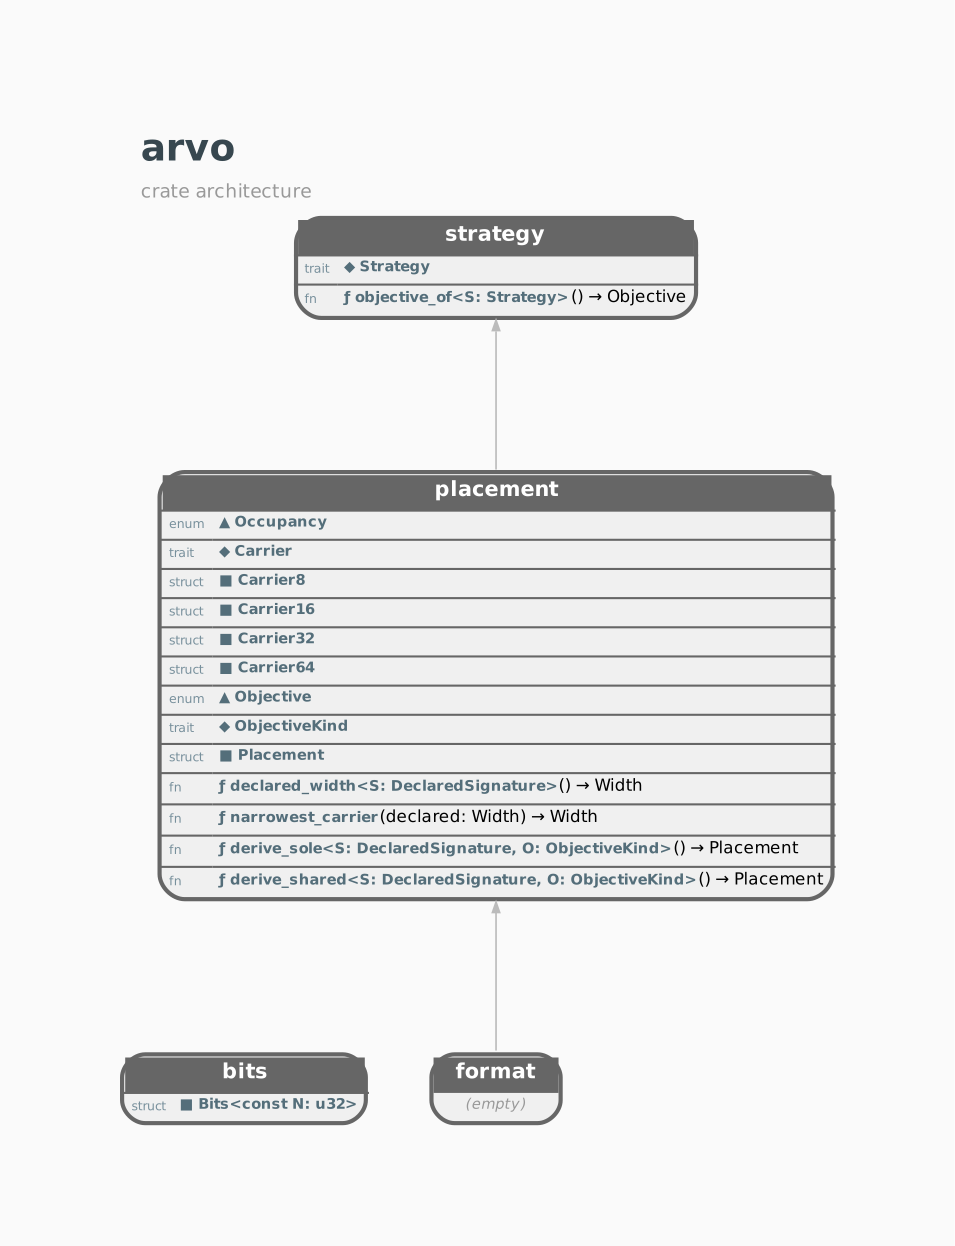
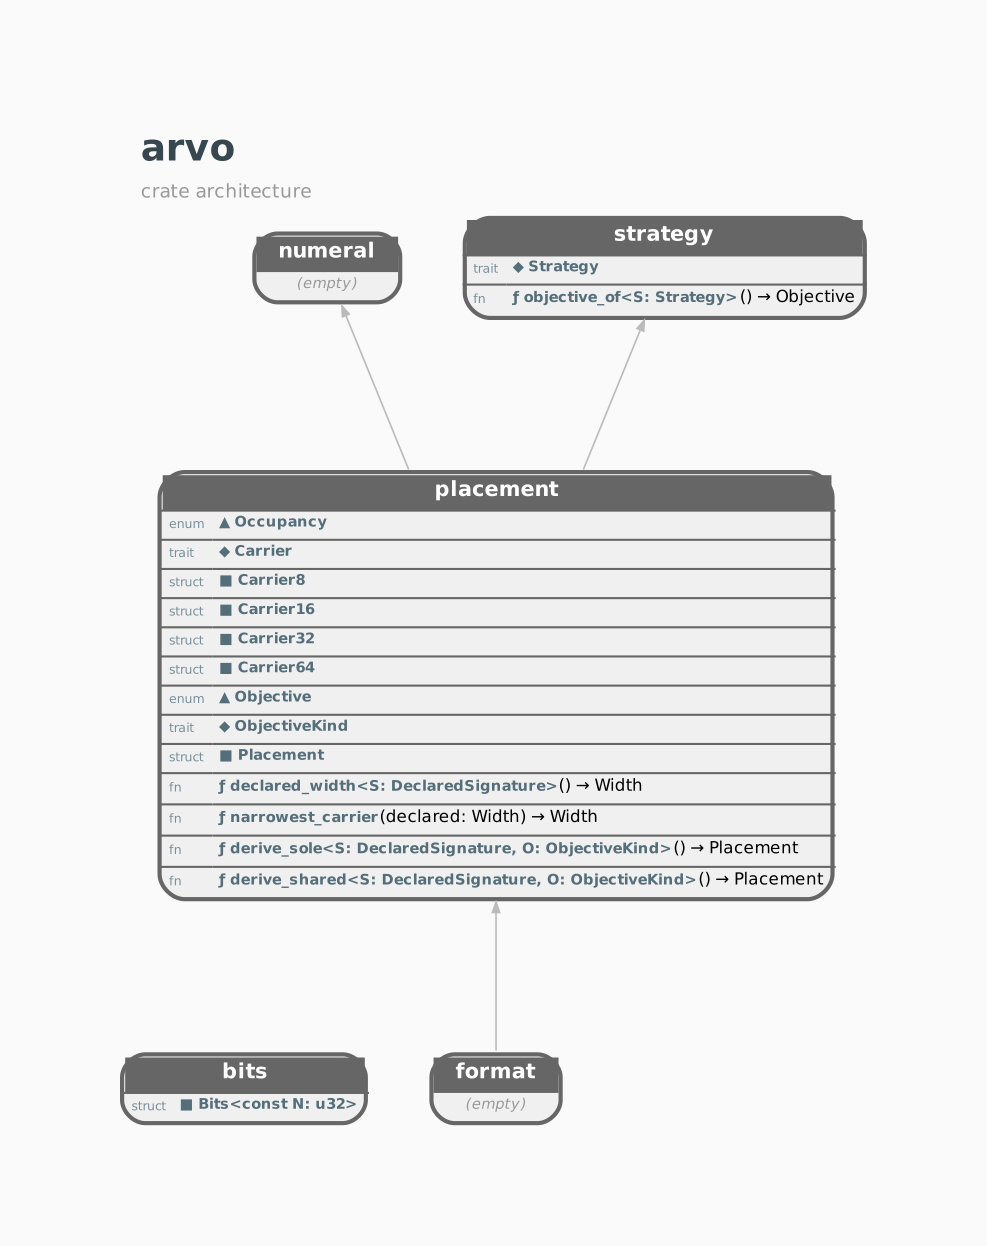
docs: regenerate the documents with `arvo-numeral` in them

diff --git a/docs/NUMERAL.md b/docs/NUMERAL.md
@@ -1,0 +1,255 @@
+<!--
+  AUTO-GENERATED: DO NOT EDIT DIRECTLY
+
+  Generated by: mockspace (mock)
+  Generated at: 2026-11-13T05:10:42Z
+  Source: mock/
+  To regenerate: cargo mock
+-->
+
+# `arvo-numeral`: a value of a declared signature, held in its derived carrier
+
+Canon this design declares:
+`ruling::the_format_spine_is_canon`, for the sum the value computes, which is the format's own.
+`ruling::behaviour_is_stated_per_declared_signature_and_the_premise_dissolves`, for the carrier being
+observable through the host's layout and through nothing the value declares.
+`ruling::the_derivation_is_a_placement_and_the_operation_set_is_an_admission_rule`, for the admission.
+`ruling::the_overflow_panic_is_permitted_and_bounded` and `ruling::never_a_runtime_check_and_one_lowered_path`,
+for the debug assertion and the two markers of each policy.
+`obligation::a_platform_sized_unsigned_integer_at_an_api_position` and
+`obligation::a_primitive_for_every_position_a_bare_number_would_take`, for the aliases.
+`proposal::a_value_is_the_sole_occupancy_placement_of_a_declared_signature`, at one expert, which this
+crate builds on and does not promote.
+
+## What this crate is
+
+A value of a declared signature: one member of the format's representable set, held alone in the
+carrier the placement derives at sole occupancy. `arvo-format` says which values exist and how an exact
+result is put back onto them; `arvo-placement` says how many bits one of them takes when it sits alone.
+Neither holds a number. This crate does, and holds nothing else.
+
+Every operation on a value is defined as the format's own operation on its slot, so the value never
+states a behaviour of its own. Its sum is the oracle's sum, `add::<S>` in `arvo-format`, and the
+contract is an equality: the slot of `a.add(b)` is `add::<S>(a.slot(), b.slot(), Dither::UNUSED)` for
+every pair of members of every admitted signature. The carrier arithmetic is the mechanism that meets
+that equality fast, and it is free to be anything that does.
+
+It depends on `arvo-format` and `arvo-placement` and adds nothing to either. `no_std`, no allocation,
+no feature gate, no unstable feature, and every operation a `const fn`.
+
+## What a value signature admits
+
+`Sole` is the bound a value is generic over. It is implemented once, over every `DeclaredSignature`
+that meets three conditions, so nothing outside this crate implements it and code generic over a
+value's signature bounds it by `Sole` and nothing more.
+
+The format's slot family is on the map, which is `Signed<W>` and `Unsigned<W>` for every `W` from 1 to
+64, through `Carried`. The overflow policy is a `ValuePolicy`: `Wrap`, `Saturate`, `Wrapping` and
+`Saturating`. The rounding mode is a `ValueRounding`: `TowardZero`, `Floor`, `Ceil`, `HalfUp` and
+`HalfEven`. All three traits are sealed, so the set is what this crate can compute and no more.
+`HalfUp` here is the format's `half_up`, a tie toward positive infinity at every sign, and not the
+`HALF_UP` of Java or Python: a tie at -2.5 goes to -2.
+
+On top of those bounds, `Sole::ADMITTED` asserts that the format's quantum is constant and its phase is
+zero. That is where the sum of two members is the member at the sum of their slots, which is what lets
+the carrier add stand in for the format's addition. Every door forces it, so no value of another
+format can be built. Integers, fixed point at any constant exponent, and scaled integers at any radix
+pass; a phase or an indexed quantum is refused at build with that assertion's message.
+
+What is refused, and why, so that each refusal reads as a decision rather than a gap:
+
+| Refused | Where it fails | Why |
+|---|---|---|
+| `Clamp` | `ValuePolicy` bound | With no bound to carry, clamping is saturation under another name. |
+| `Stochastic` | `ValueRounding` bound | It reads a dither, and a value has nowhere to carry one. |
+| A phase, an indexed quantum | `Sole::ADMITTED` | The sum of two slots is not the slot of the sum. |
+| Width 0, width past 64 | `Carried` bound | No slot range, or no ladder carrier. |
+
+## How the value holds its carrier
+
+`Num<S: Sole>` is a `repr(transparent)` newtype over `S::Repr`, its field private. `S::Repr` comes from
+the map: `Carried` names the ladder carrier for each slot family, the narrowest of 8, 16, 32 and 64 bits
+that holds the width, signed exactly where the family is. Each row of the map carries a check-time
+assertion that the carrier's size in bits is what `arvo_placement::derive_sole` derives for that
+family's canonical point, so the map cannot drift from the placement it transcribes.
+
+A `const fn` cannot call a trait method on `S::Repr`. So each operation is written once: it moves the
+bits to the machine integer of the same size and signedness, calls that rung's function, and moves the
+result back. The match it dispatches on is over constants of the instantiation, so one arm survives
+monomorphisation and the backend sees one call. The move is a bit copy and the crate's one `unsafe`. It
+is bounded on `Machine`, sealed to the plain machine integers, where every bit pattern is a valid value,
+and guarded by an assertion that the two sizes are equal; that assertion is an ordinary one rather than
+an inline `const`, because the dead arms are monomorphised as well and would fail it, and on the arm
+taken it holds and folds away.
+
+The rung functions are written once per carrier width and expanded by one macro. Below the carrier's
+width two members sum without leaving the carrier, so `add` is the machine's wrapping add followed by
+the adaptation onto the declared width. At the carrier's width the machine's own wrapping or saturating
+add is already the answer.
+
+## Where the host integers are named
+
+This crate is where the carriers the placement derives meet the host's machine integers, so it is
+declared beside `arvo-format` and `arvo-bits` as introducing the numeric category, and the
+bare-primitive lints read that declaration as their scope. The declaration covers a named surface and
+nothing else:
+
+1. `Num`'s representation, `S::Repr`, and the map that names it: `Carried`, its rows from `Signed<W>`
+   and `Unsigned<W>` to the ladder carriers, and `Machine` with the bit copy between two of them.
+2. The rung arithmetic, written once per carrier width, and the dispatch onto it by the carrier's size
+   and sign.
+3. The doors to the carrier, `raw` and `from_raw`, and to the host, `from_host` and `host` on `USize`
+   and `ISize`.
+4. The slot index, a bare `i128` in `arvo-format`'s `Slot`, where `constant` takes it as a const
+   parameter and the value is built from one.
+5. The signatures core fixes for the traits `Num` implements, `PartialEq::eq` returning `bool` among
+   them, and the crate's own tests.
+
+Everything else is written in the stack's own types: `Bool` for every predicate, `Width` and `Policy`
+from the signature, `Ordering` for the order, and `Num` itself at every position a consumer sees.
+
+## The overflow markers
+
+Each value policy has two markers over one `Policy`.
+
+Under the plain spellings, `arvo_format::overflow::Wrap` and `arvo_format::overflow::Saturate`, a
+result that leaves the range asserts in a debug build: in `add`, and in every door that adapts. That is
+the letter of `ruling::the_overflow_panic_is_permitted_and_bounded`.
+
+`Wrapping` and `Saturating` are declared here, implementing `arvo_format::Overflow` with the same
+`POLICY`. Under them the completion is the meaning of the operation and nothing asserts in any build
+profile, the way the host's own `core::num::Wrapping` and `core::num::Saturating` behave. The choice is
+in the type, never in a build flag.
+
+The assertion never lives inside the total operation. It asks a verdict, `fits_add`, which says whether
+the exact sum of two members is a member, and only under a plain marker and `debug_assertions`; in a
+release build, and under the second markers in every build, the branch is a constant false and clears
+at lowering. The doors that adapt ask `arvo_format::panic_on_overflow` of the position they adapt, the
+same verdict the format ships.
+
+The compromise, stated: a consumer writing `Wrap` gets a debug abort on a sum that wraps. That is the
+ratified row's letter, and the marker that turns it off is one word away.
+
+## The doors
+
+Every door is a `const fn` and every one is total or refused at build. None checks at run time.
+
+`Num::constant::<V>()` takes a slot index as a bare `i128` const parameter and is refused at build, as
+a failed constant, where `V` is not a member. `Num::adapted(exact)` ingests an `arvo_format::Exact`
+through the format's own `adapt`, so a position between two slots is rounded by the signature's mode and
+a position outside the range is completed by its policy. `Num::from_raw(raw)` reads carrier bits as the
+member they name after the rung's adaptation onto the declared width, so it is total over every bit
+pattern, and `from_raw(v.raw())` is `v` for every value.
+
+`Num::slot` and `Num::raw` are the unwrap doors and say so: `slot` gives the member's `arvo_format::Slot`,
+`raw` the carrier bits, and the carrier is the one place this crate shows a machine integer.
+
+`USize` and `ISize` carry two more, `from_host` and `host`, taking and giving the host's `usize` and
+`isize`. Their carrier is the ladder's at the pointer width and every host value is a member, so both
+are bit copies.
+
+## The operations
+
+`add` is the sum, total, and equal to the oracle on every pair. `fits_add` is its verdict, returning
+`Bool`.
+
+`eq` returns `Bool`, and two values are equal exactly when their slots are, because the carrier is
+canonical: one member, one bit pattern. `cmp` returns `core::cmp::Ordering`; `lt`, `le`, `gt` and `ge`
+return `Bool`; `min` and `max` return the value. At a zero phase and a constant quantum the map from slot
+to member is monotone, and the carrier is signed exactly where the slot family is, so the carrier's order
+is the members' order and these read the carrier.
+
+`Num` implements `Clone`, `Copy`, `PartialEq`, `Eq`, `Hash` and `Debug` through the carrier, written by
+hand so that `S` itself is not bounded. It implements no operator trait beyond equality, no ordering
+trait, no `Default` and no `From` of a host integer. An operator trait cannot be called in a `const fn`,
+so the operations are the inherent ones above. The ordering traits are left out because core's
+`partial_cmp` answers in a bare `Option`, which this workspace refuses in every crate that does not
+introduce fallibility, and `Ord` cannot be had without it; the order is the inherent `cmp`, which a
+consumer passes wherever a comparison is taken. A default would be a policy decided for the consumer,
+and a conversion from a host integer is the door `from_raw` already is, named.
+
+## Identities
+
+`Identity<M>` has one associated constant, `IDENTITY`, and `Additive` is the one `M` this crate declares.
+The call shape is `<Num<S> as Identity<Additive>>::IDENTITY`.
+
+`Num<S>` implements it for every `S`. The constant asserts `arvo_format::has_additive_identity` of the
+format before anything else, so on a format without one the refusal is a failed constant naming the
+missing identity rather than a missing impl. Within what `Sole` admits zero is always slot zero and a
+member, so the refusal fires only where the admission would refuse as well, and fires first.
+
+The identity is computed from the format's own predicate rather than declared, so it is not an author's
+marker that nothing checks. Associativity stays the verdict it is, `arvo_format::addition_is_associative`,
+and no marker for it is declared here. The multiplicative identity waits for the product on values.
+
+## Aliases
+
+`Uint<BITS, A>` is a value of `UFixed<BITS, 0>` under the adaptation `A`, and `Int<BITS, A>` of
+`Integer<BITS>`. `USize` and `ISize` are values of `arvo_format::points::USize` and
+`arvo_format::points::ISize` under `Adapt<TowardZero, Wrap>`. The const parameters are bare integers.
+
+`Bool` is `arvo_format::Bool`, re-exported, and not a value over a declared signature. It is the type
+every predicate and verdict returns, the format's and this crate's alike: `eq`, `lt`, `fits_add` and the
+format's own `panic_on_overflow` all give it. A boolean over a one-bit value would be a second type for
+the same thing, and none of those would return it. A one-bit value's sum is also not how a yes or no is
+read: under wrapping it is exclusive or, under saturation it is or. So a consumer finds the boolean
+beside the numerals, and it is the one the stack already answers in.
+
+## What is proved, and how
+
+The suite is split into one test binary per width band, 1 to 8, 9 to 16, 17 to 32 and 33 to 64, so a
+band's run is its own and the narrow bands stay quick.
+
+Widths 1 to 8 are exhaustive: every signature over both slot families, both value policies under the
+non-asserting markers and all five modes, every pair of members, through the value type and checked
+against the oracle. The same widths are computed in each of the four rungs, which is the derived carrier
+checked against every wider one, the 64-bit carrier among them. Widths 9 to 12 are computed in every
+rung wide enough to carry them, the 16, 32 and 64-bit ones, both slot families, both policies, every
+pair, against the oracle.
+
+So the rungs are exhaustive at widths 1 to 12, which covers the 8-bit carrier at its full width and the
+wider carriers below theirs, and the value type is exhaustive at 1 to 8. Widths 13 to 64 are sampled,
+and every full-width branch of the 16, 32 and 64-bit carriers, the machine's own wrapping or saturating
+add, falls among them: at width 16 alone there are four billion pairs per family and policy.
+
+Widths 9 to 64 run through the value type on an edge lattice, each end of the range and its neighbours,
+zero and its neighbours, and every single-bit value, against the oracle, plus pairs drawn from a seeded
+generator whose seed is committed in the test.
+
+`fits_add` is checked against `panic_on_overflow` on the same pairs. `from_raw(v.raw()) == v`, and
+carrier equality is slot equality.
+
+The debug assertion is observed where it lives. One test per site, `add`, `adapted` and `from_raw`, and
+per plain marker, `Wrap` and `Saturate`, gives the site an input that leaves the range and expects the
+site's own message; the panic is the plain markers' specified behaviour in a debug build, so these are
+`#[should_panic]` tests. Each site has a twin under `Wrapping` and `Saturating` taking the same input
+and completing it, and one test shows the plain markers stay quiet on what fits. The binary is compiled
+only under `debug_assertions`, since a release build has no assertion to observe.
+
+One mutant per rung, behind the committed features `mutant-8`, `mutant-16`, `mutant-32` and `mutant-64`,
+removes the rung's adaptation. The tests assert agreement with the oracle under every build and expect
+nothing of a mutant, so each mutant turns red the tests that run through its rung and leaves the others
+green. The red output of each mutant's run is committed.
+
+`law::additive_associativity_under_wrapping` and `law::additive_associativity_under_saturation` are
+reproduced through the value type, with the registry's own counts.
+
+Compile-fail pairs under `tests/ui/`, each beside a passing twin that differs in the offending token,
+with the diagnostic committed: width 0 and 65, `constant` of a non-member, the additive identity on a
+format without one, `add` across two signatures, a host integer where a value goes and a value where a
+host integer goes, the field named from outside, `Clamp`, `Stochastic` and a phased format.
+
+A consumer is a crate of its own, outside this workspace, that depends on `arvo-numeral` with no feature
+line and reaches every public item: each type, trait and alias, each associated item of `Sole`,
+`Carried`, `Machine` and `ValuePolicy`, each door and operation, the identity, the host doors of `USize`
+and `ISize`, and the derived traits. A test builds and runs it, and it asserts what it reads.
+
+The disassembly of `add` at 13 bits in 16 and at 64 bits beside the host's `wrapping_add` is committed as
+an ad hoc reading, and called that: the bench harness cannot yet commit the disassembly of a named
+function.
+
+## What is not here
+
+Subtraction, negation, the product, the exact accumulator and `Lane` are the next round's, and nothing
+here presumes their shape. A value at shared occupancy, packed beside others, is a different placement
+and not this crate's.

diff --git a/docs/DESIGN.md b/docs/DESIGN.md
@@ -2,7 +2,7 @@
   AUTO-GENERATED: DO NOT EDIT DIRECTLY
 
   Generated by: mockspace (mock)
-  Generated at: 2026-09-11T07:41:31Z
+  Generated at: 2026-11-13T05:10:42Z
   Source: mock/
   To regenerate: cargo mock
 -->
@@ -34,11 +34,11 @@
 
 ## Crate topology
 
-Four crates. Three of them chain by dependency, and the dependency direction is
+Five crates. Four of them chain by dependency, and the dependency direction is
 what enforces the design rather than a rule asking for it: `arvo-format` cannot
 name a carrier because it does not depend on the crate that has one, which is
 how "every operation is a function of the declared width and never of the
-machine carrier" stays true under later edits. The fourth, `arvo-bits`, sits
+machine carrier" stays true under later edits. The fifth, `arvo-bits`, sits
 parallel to `arvo-format` rather than in the chain, depending on nothing in
 this workspace.
 
@@ -47,6 +47,7 @@ this workspace.
 | `arvo-format` | The declared signature. The representable set as one affine predicate over a phase, a quantum law and a slot range, of which integers, fixed point, scaled integers and floats are points. The six rounding modes, the overflow policies, the adaptation as the pair of those two, and the map that applies one. Addition, the one admitted operation it ships, with the verdict on where the adapted sum is associative. Introduces the numeric category, so `Width` and `Bool` are defined here. | `notko` |
 | `arvo-placement` | The placement derivation, keyed on occupancy. One output at sole occupancy, the carrier; three at shared, the carrier and the access width and the stride. No declared operation reads any of them. | `arvo-format` |
 | `arvo-strategy` | The binding from a name to a placement objective and an adaptation selection. Four presets ship as instances of an open concept rather than as members of an enumeration. | `arvo-format`, `arvo-placement` |
+| `arvo-numeral` | The value. `Num<S>` holds one member of a declared signature alone in the carrier `arvo-placement` derives at sole occupancy, and its sum is the format's own sum. Comparison, the doors in and out, the additive identity where the format has one, and the aliases `Uint`, `Int`, `USize` and `ISize`. Each overflow policy in two spellings, one that asserts in a debug build and one that never does. | `arvo-format`, `arvo-placement` |
 | `arvo-bits` | An exact-width bit container, `Bits<const N: u32>` for `N` from one to sixty-four. Masked construction and masked cast between declared widths, no arithmetic, no sign. Introduces the numeric category a second time, so `Bits` is defined here rather than reaching into `arvo-format` for it. | none |
 
 The set is open at both ends it can be. A new numeral joins by implementing
@@ -62,7 +63,8 @@ Every crate here is a small set of contracts plus the instances that ship with
 them. `Format`, `Ambient`, `Quantum`, `Slots`, `Rounding`, `Overflow`,
 `Adaptation`, `DeclaredSignature` and `Operation` are contracts; `Integer`,
 `UFixed`, `Biased`, `Floating`, the six modes, the three policies and `Add`
-are instances of them.
+are instances of them. In `arvo-numeral`, `Sole` and `Identity` are contracts,
+and `Wrapping`, `Saturating` and `Additive` are instances.
 
 `Bits<const N: u32>` in `arvo-bits` is the one exception to that shape, and
 naming it as one is worth a sentence rather than leaving it to look like an
@@ -74,7 +76,9 @@ concept, it would be a second definition of the same fact.
 The reason the split falls this way is what a consumer has to depend on to say
 one thing. Stating what values exist needs `arvo-format` and nothing else.
 Stating where they sit needs `arvo-placement` on top of it. Choosing between
-placements needs `arvo-strategy` on top of both. Saying the same thing in an
+placements needs `arvo-strategy` on top of both. Holding a value and computing
+with it needs `arvo-numeral`, which builds on the first two and not on the
+strategy binding. Saying the same thing in an
 industrial convention's own words is still stating what values exist, so it needs
 `arvo-format` and nothing else, and the conventions ship there beside the
 parameterisation points. A consumer that only declares formats never compiles a
@@ -84,15 +88,17 @@ and a consumer wanting only one of them should not compile the other.
 
 ## Dependency direction
 
-Strictly upward within the three-crate chain, and it carries a design constraint
+Strictly upward within the chain, and it carries a design constraint
 rather than a convention. `arvo-format` has no workspace dependency, so nothing
 in it can mention a carrier; `arvo-placement` depends on it and derives one;
 `arvo-strategy` depends on both and binds a name to a choice between them.
-`arvo-bits` depends on none of the three: it sits beside `arvo-format` rather
+`arvo-numeral` depends on the first two and holds a value in the carrier the
+placement derives, reading the format for everything it computes.
+`arvo-bits` depends on none of them: it sits beside `arvo-format` rather
 than above or below it, because the value it holds and the format that would
 describe a numeral's representable set are answers to different questions, and
 a consumer of one should not be made to compile the other. There is no facade
-today, and a crate that re-exported the four would sit below all of them rather
+today, and a crate that re-exported the five would sit below all of them rather
 than above.
 
 ## Consumers
@@ -107,7 +113,9 @@ vehje, used crates that no longer exist.** Those crates were removed on
 2026-08-08 and the surfaces they offered have not been rebuilt on the current
 base. A downstream repository pinning this branch gets the crates above and
 nothing else, and that is the honest statement of what is available rather than
-of what is planned. `arvo-bits` is new source written from the current canon,
+of what is planned. `arvo-numeral` is the first value type on the current base:
+integers and the other constant-quantum points, with their sum and comparison,
+and nothing yet of subtraction or the product. `arvo-bits` is new source written from the current canon,
 not a restoration of anything removed, and it answers one piece of what those
 removed crates used to answer, an exact-width container, rather than the rest
 of it: hashing algorithms and string identity are not this crate's job and

diff --git a/docs/STRUCTURE.md b/docs/STRUCTURE.md
@@ -2,7 +2,7 @@
   AUTO-GENERATED: DO NOT EDIT DIRECTLY
 
   Generated by: mockspace (mock)
-  Generated at: 2026-09-04T18:59:17Z
+  Generated at: 2026-11-13T05:10:42Z
   Source: mock/
   To regenerate: cargo mock
 -->
@@ -27,6 +27,7 @@ See also: [STRUCTURE.GRAPH.svg](STRUCTURE.GRAPH.svg) for the visual dependency g
 
 **Layer 2: L0 storage**
 
+- [numeral](#numeral)
 - [strategy](#strategy)
 
 ---
@@ -47,7 +48,7 @@ See also: [STRUCTURE.GRAPH.svg](STRUCTURE.GRAPH.svg) for the visual dependency g
 
 `arvo-format` · depth 0
 
-**Depended on by:** placement, strategy
+**Depended on by:** numeral, placement, strategy
 
 ---
 
@@ -63,7 +64,7 @@ See also: [STRUCTURE.GRAPH.svg](STRUCTURE.GRAPH.svg) for the visual dependency g
 |------------|--------|--------------------|
 | format | ✓ | ✓ (edge drawn) |
 
-**Depended on by:** strategy
+**Depended on by:** numeral, strategy
 
 #### Public API
 
@@ -84,6 +85,19 @@ See also: [STRUCTURE.GRAPH.svg](STRUCTURE.GRAPH.svg) for the visual dependency g
 ---
 
 ## Layer 2: L0 storage
+
+### numeral
+
+`arvo-numeral` · depth 2
+
+#### Dependencies
+
+| Dependency | Direct | Transitive-reduced |
+|------------|--------|--------------------|
+| format | ✓ | (transitively implied) |
+| placement | ✓ | ✓ (edge drawn) |
+
+---
 
 ### strategy
 
